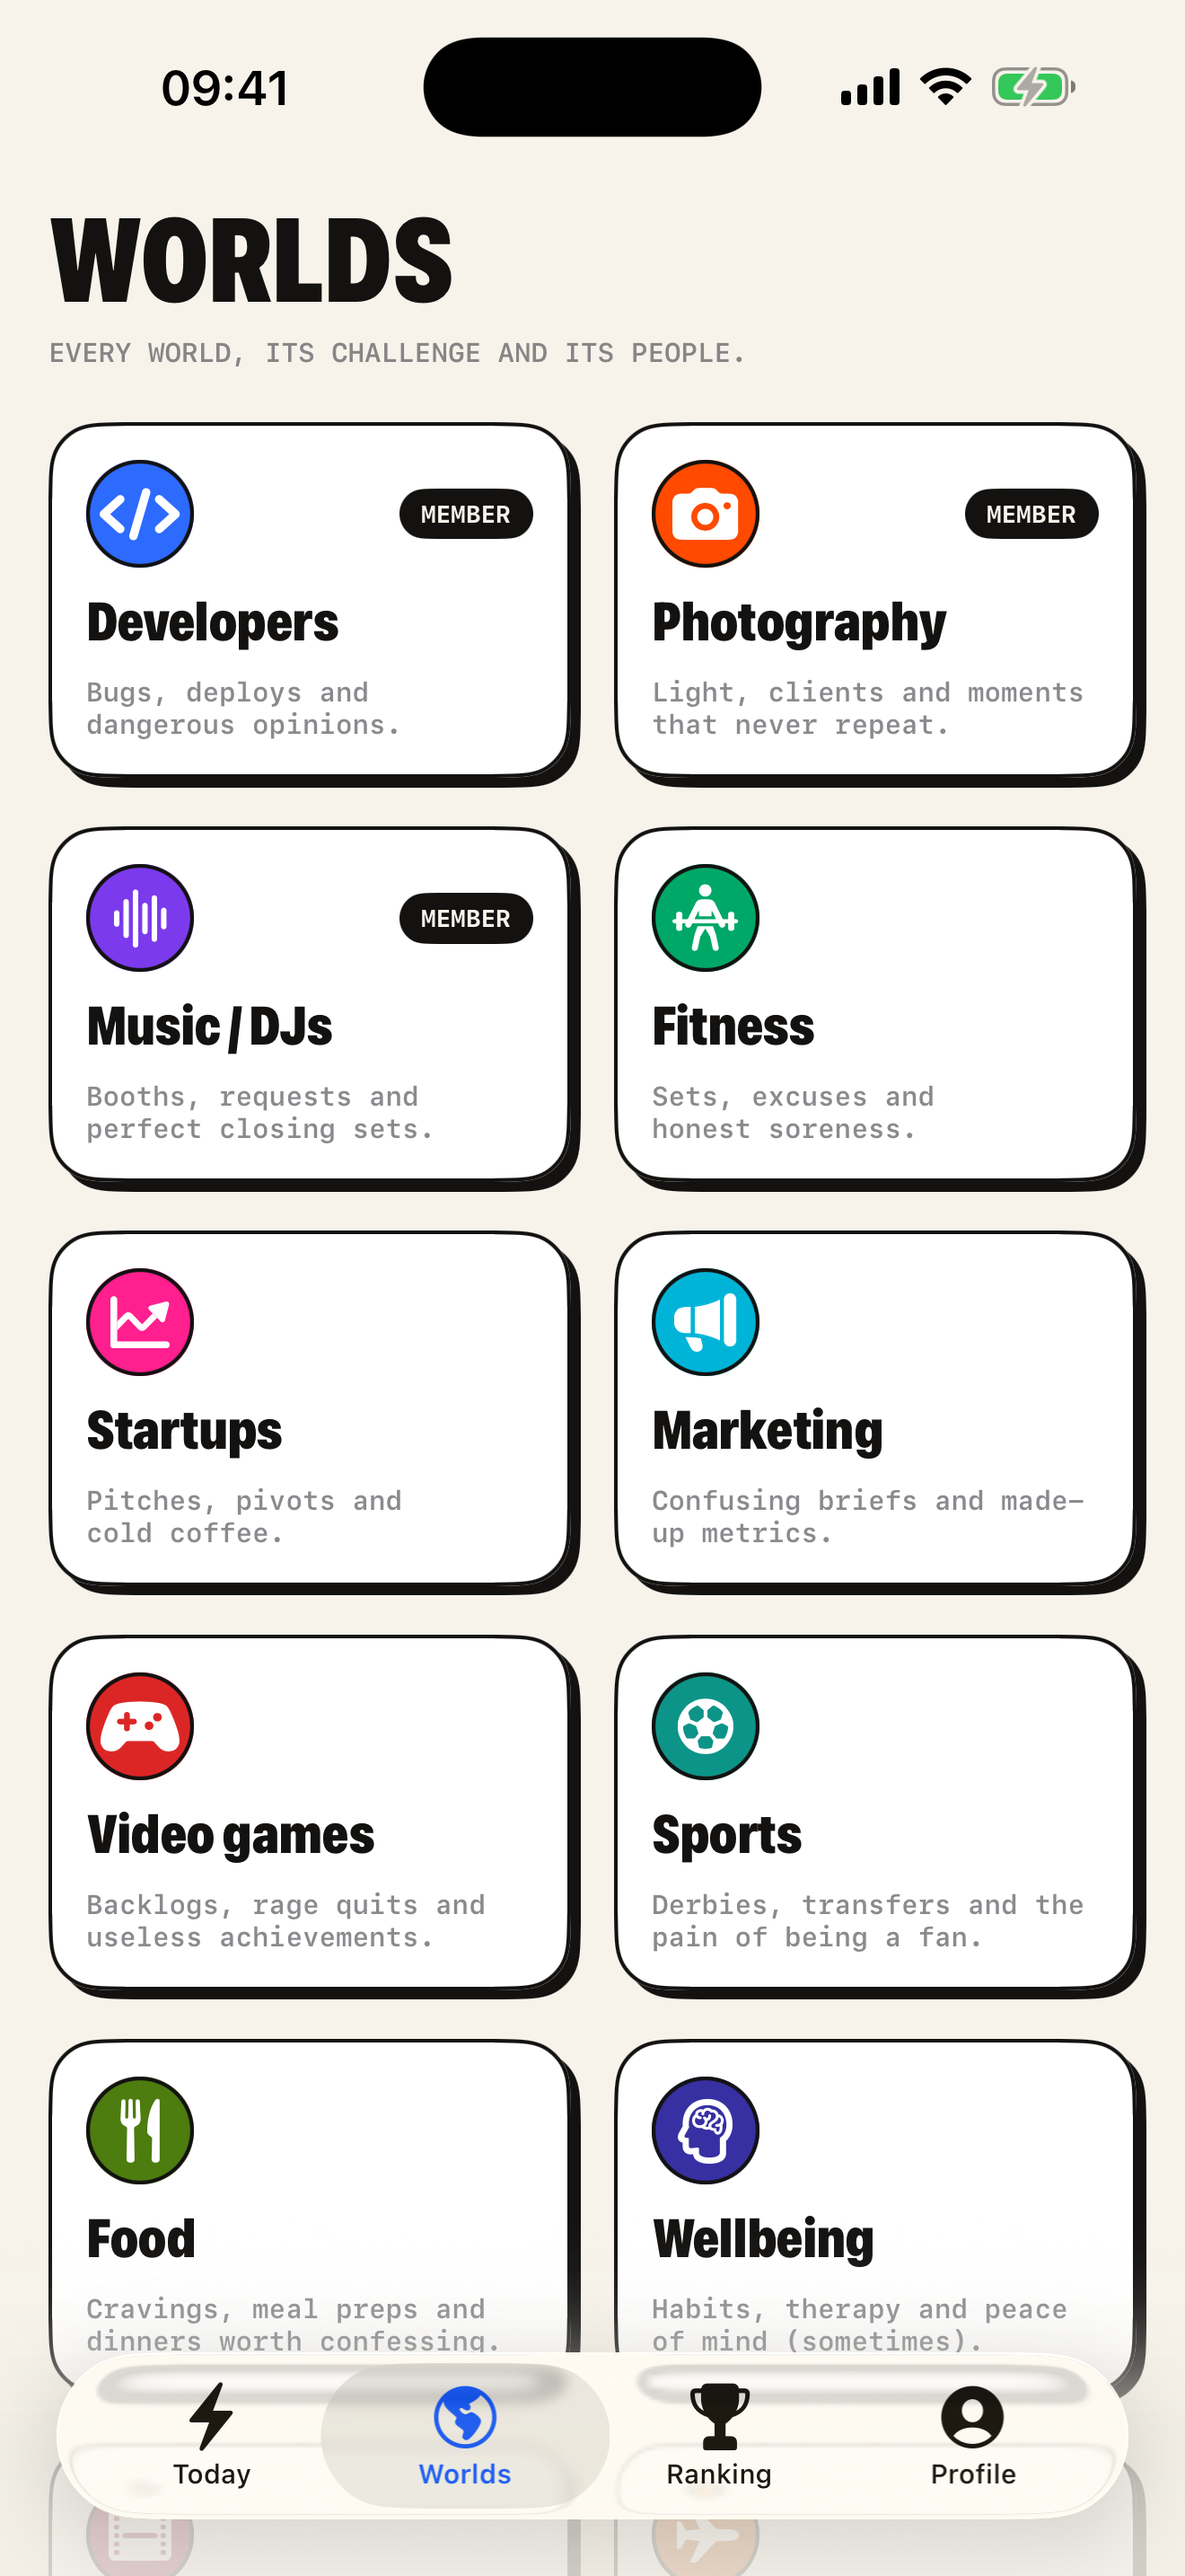
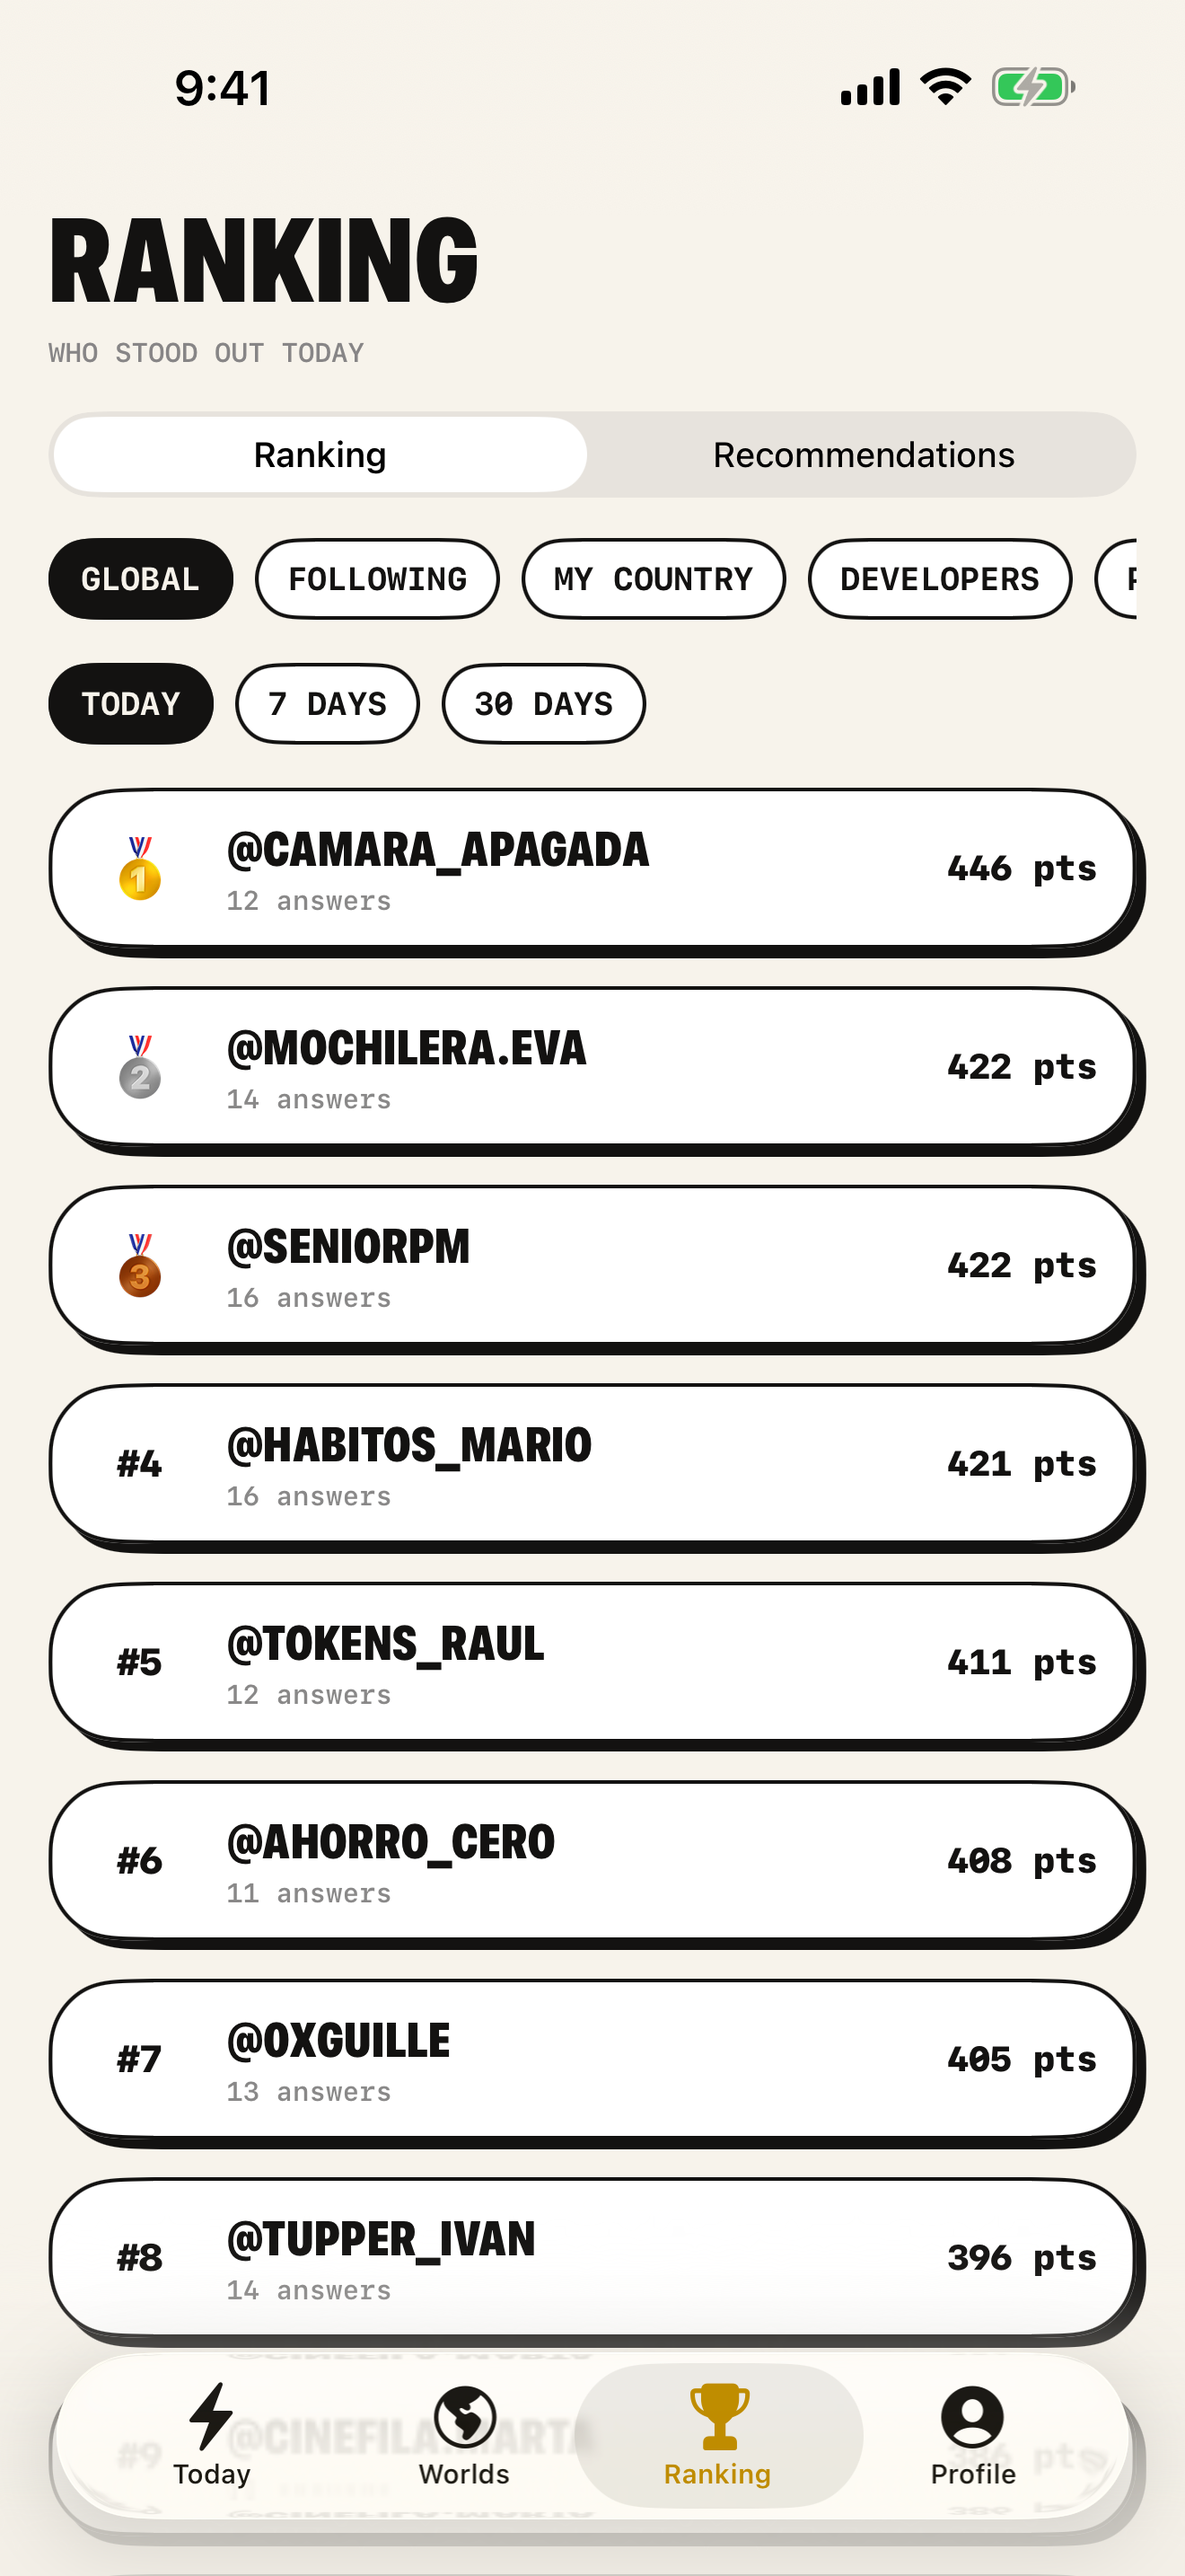
BLAB ficha: iOS, Android and web, 20 worlds, 7 languages, Google Play button, blab.day as the site, current features and pricing; fresh iOS captures (1.6.4) and a new Android screens panel

Changed region(s): [[0.0311, 0.0, 0.9939, 1.0], [0.4348, 0.1241, 0.4659, 0.1552]]

diff --git a/data/portfolio.ts b/data/portfolio.ts
@@ -42,6 +42,8 @@ export interface AppProduct {
   icon?: string
   /** Real product screenshots under /public (never fabricated UI). */
   screens?: string[]
+  /** Android captures, shown in a second panel under the iOS ones. */
+  androidScreens?: string[]
   appStoreUrl?: string
   playStoreUrl?: string
   stats?: { value: string; label: string }[]
@@ -258,47 +260,49 @@ export const products: AppProduct[] = [
     status: 'live',
     statusText: 'LIVE',
     flagship: false,
-    platforms: 'iOS',
-    languages: 'English, Spanish',
+    platforms: 'iOS · Android · Web',
+    languages: '7 languages',
     oneLiner: 'A social app of daily micro-challenges. Answer today’s challenge in your mode — confession, roast, unpopular opinion — inside worlds that get your context.',
     tagline: 'Answer challenges. Pick your mode. Stand out.',
     highlight: 'Stand out.',
-    lede: 'One challenge a day. Five modes to answer it. Eighteen worlds that get your context. Reactions that mean something — no generic like. Challenge + mode + world = a post with context.',
-    siteUrl: 'https://getblab.app',
+    lede: 'One challenge a day, the same for everyone. Five modes to answer it. Twenty worlds that get your context. Five reactions that say something. No engagement algorithm deciding what you see.',
+    siteUrl: 'https://blab.day',
     icon: '/apps/blab-icon.png',
     screens: ['/apps/blab-screen-1.png', '/apps/blab-screen-2.png', '/apps/blab-screen-3.png'],
+    androidScreens: ['/apps/blab-android-1.png', '/apps/blab-android-2.png', '/apps/blab-android-3.png'],
     appStoreUrl: 'https://apps.apple.com/app/id6807564772',
+    playStoreUrl: 'https://play.google.com/store/apps/details?id=com.beatlabs.blab',
     stats: [
       { value: '5', label: 'Modes' },
-      { value: '18', label: 'Worlds' },
-      { value: '4', label: 'Reactions' },
+      { value: '20', label: 'Worlds' },
+      { value: '7', label: 'Languages' },
     ],
     features: [
-      { id: '01', title: 'A challenge a day.', desc: 'Every day the app proposes a challenge. Never stare at an empty box again — you always know what to post.' },
-      { id: '02', title: '5 modes.', desc: 'Confession, roast, unpopular opinion, idea, advice. Pick how you answer, and everyone knows the tone before they read.' },
-      { id: '03', title: '18 worlds.', desc: 'Developers, photography, music & DJs, fitness, startups, marketing and more. Choose up to five — each with its own challenges.' },
-      { id: '04', title: 'Reactions that mean something.', desc: '🙌 That’s me, 💥 Brutal, 🛠 Useful, 🔖 Saved. Four reactions, no generic like.' },
-      { id: '05', title: 'Ranking & streak.', desc: 'Global, following, your country or each of your worlds — today, 7 days, 30 days. Keep the streak alive.' },
-      { id: '06', title: 'Photo, video, links.', desc: 'One photo per post, a link card that never hides its real domain, and short video for Pro.' },
+      { id: '01', title: 'A challenge a day.', desc: 'Every day the app proposes one question for all of BLAB. Never stare at an empty box again — and you can always post freely too.' },
+      { id: '02', title: '5 modes.', desc: 'Confession, roast, unpopular opinion, idea, advice. Every challenge sets its tone, so everyone knows how to read you.' },
+      { id: '03', title: '20 worlds.', desc: 'Developers, photography, music & DJs, fitness, startups, food, travel, pets, money, work, daily life and more. No joining: a world is just where you post.' },
+      { id: '04', title: 'Reactions that mean something.', desc: '❤ Like, 🙌 That’s me, 💥 Brutal, 🛠 Useful, 🔖 Saved. Reactions you give yourself never count.' },
+      { id: '05', title: 'Photo, video, GIF, link, poll, Check-in.', desc: 'A photo or a short video, a KLIPY GIF, a link card that never hides its real domain, a 24-hour poll, or a Check-in of a film, book, game, dish, album, podcast or place with your stars.' },
+      { id: '06', title: 'Ranking, streak and your week.', desc: 'Global, following, your country or any world — today, 7 days, 30 days. A daily reminder at your hour, and every Sunday a recap of your week.' },
     ],
     howItWorks: [
-      { step: '01', title: 'Pick your worlds', desc: 'Choose up to five worlds that match what you do. That is your feed.' },
-      { step: '02', title: 'Answer in a mode', desc: 'Open today’s challenge, pick confession, roast, unpopular opinion, idea or advice, and post.' },
+      { step: '01', title: 'Read first', desc: 'Open BLAB and read today’s challenge and its answers. No account needed to browse.' },
+      { step: '02', title: 'Answer in a mode', desc: 'Sign in with Apple or Google in one tap, pick a world, and post — text, photo, GIF, poll or Check-in.' },
       { step: '03', title: 'Stand out', desc: 'Earn reactions, climb the ranking, keep your streak going.' },
     ],
     pricing: [
-      { name: 'Free', price: '€0', note: 'Everything you need', items: ['Daily challenges', 'All modes and worlds', 'One photo per post'] },
-      { name: 'Pro', price: '€2.99', note: 'Monthly, or €24.99 a year', items: ['Video up to 15 s', 'PRO badge'], highlight: true },
+      { name: 'Free', price: '€0', note: 'Everything you need', items: ['Daily challenges', 'All modes and worlds', 'Photo, GIF, link and Check-in', 'Vote in polls'] },
+      { name: 'Pro', price: '€2.99', note: 'Monthly, or €24.99 a year', items: ['Video up to 15 s', 'Create polls', 'PRO badge'], highlight: true },
     ],
     faq: [
       { q: 'What is BLAB?', a: 'A social app where every post starts from a challenge. The app proposes one daily; you answer in a mode, inside a world of people who get your context.' },
-      { q: 'What are modes and worlds?', a: 'A mode is the tone of your answer: confession, roast, unpopular opinion, idea or advice. A world is the community it belongs to — developers, photography, music, fitness, startups, marketing and twelve more.' },
-      { q: 'Can I create my own world?', a: 'Not yet. Worlds are a curated catalogue of eighteen so communities don’t fragment. New ones are added by us.' },
-      { q: 'Is BLAB free?', a: 'Yes. Pro (€2.99 a month or €24.99 a year) adds video posts up to 15 seconds and the PRO badge.' },
-      { q: 'Where is it available?', a: 'BLAB is available now on iOS, in English and Spanish. Android is coming next.' },
+      { q: 'What are modes and worlds?', a: 'A mode is the tone of your answer: confession, roast, unpopular opinion, idea or advice. A world is the community it belongs to — developers, photography, music, fitness, startups, marketing and fourteen more.' },
+      { q: 'Can I create my own world?', a: 'Not yet. Worlds are a curated catalogue of twenty so communities don’t fragment. New ones are added by us.' },
+      { q: 'Is BLAB free?', a: 'Yes. Pro (€2.99 a month or €24.99 a year) adds video posts up to 15 seconds, creating polls and the PRO badge.' },
+      { q: 'Where is it available?', a: 'On iOS and iPad, Android and the web at blab.day, in English, Spanish, Italian, French, Portuguese, German and Arabic.' },
     ],
     docs: [
-      { label: 'Website', href: 'https://getblab.app' },
+      { label: 'Website', href: 'https://blab.day' },
       { label: 'Privacy Policy', href: 'https://getblab.app/privacy' },
       { label: 'Terms of Service', href: 'https://getblab.app/terms' },
     ],

diff --git a/app/apps/[slug]/page.tsx b/app/apps/[slug]/page.tsx
@@ -97,11 +97,22 @@ export default function AppDetailPage({ params }: { params: { slug: string } }) 
         {/* SCREENS */}
         {app.screens && app.screens.length > 0 && (
           <>
-            <Head title="On the phone" label={app.platforms} />
+            <Head title="On the phone" label={app.androidScreens ? 'iOS' : app.platforms} />
             <div className="screens">
               {app.screens.map((src, i) => (
                 // eslint-disable-next-line @next/next/no-img-element
                 <img key={src} src={src} alt={`${app.displayName} screen ${i + 1}`} loading="lazy" width={1320} height={2868} />
+              ))}
+            </div>
+          </>
+        )}
+        {app.androidScreens && app.androidScreens.length > 0 && (
+          <>
+            <Head title="On Android" label="Google Play" />
+            <div className="screens">
+              {app.androidScreens.map((src, i) => (
+                // eslint-disable-next-line @next/next/no-img-element
+                <img key={src} src={src} alt={`${app.displayName} Android screen ${i + 1}`} loading="lazy" width={1080} height={2400} />
               ))}
             </div>
           </>

diff --git a/public/apps/PROVENANCE.md b/public/apps/PROVENANCE.md
@@ -8,7 +8,8 @@ All files are real brand assets; none is generated.
 - curb-screen-1.png, curb-screen-2.png, curb-screen-3.png — captures of the real Curb iOS app (Debug build, iPhone 17 Pro Max simulator on iOS 26.2, 1320×2868) taken on 2026-09-03 with the app's screenshot mode and seeded demo subscriptions; the UI is the shipped app, the subscriptions are demo data.
 - nibango-screen-1.png, nibango-screen-2.png, nibango-screen-3.png — captures of the real Nibango iOS app (Debug build, iPhone 17 Pro Max simulator on iOS 26.2, 1320×2868) taken on 2026-09-03 with the app's screenshot mode and seeded demo listings (royalty-free Unsplash product photos); the UI is the shipped app, the listings and chat are demo data.
 - blab-icon.png — the BLAB app icon, pasted by the owner in the design session on 2026-09-02.
-- blab-screen-1.png, blab-screen-2.png, blab-screen-3.png — captures of the real BLAB iOS app (iPhone 17 Pro Max simulator on iOS 26.2, 1320×2868) taken on 2026-09-03 from the English UI with the app’s `-demoUser` demo profile; copied from the owner’s App Store screenshot set (Today, Answer, Worlds). The UI is the shipped app, the posts are demo data.
+- blab-screen-1.png, blab-screen-2.png, blab-screen-3.png — captures of the real BLAB iOS app (iPhone 17 Pro Max simulator on iOS 26.2, 1320×2868) retaken on 2026-10-16 from the English UI with the app's `-demoUser` demo profile via `scripts/screenshots.sh en` in the BLAB repo (Today, Worlds, Ranking). The UI is the shipped 1.6.4 app, the posts are demo data.
+- blab-android-1.png, blab-android-2.png, blab-android-3.png — captures of the real BLAB Android app (debug build of 2026-10-16 on the `BLAB_Screenshots_20261004` emulator, 1080×2400) with the same demo profile (`--ez demoUser true`), English UI: Today, Worlds, Profile.
 - truelove-icon.png — the TrueLoveCreative apple-touch-icon fetched from https://truelovecreative.es/apple-icon.png (owner's studio).
 - estrela-mark.png — the Estrela Photography signature fetched from https://estrela.photo/img/signature.webp (owner's studio), converted to PNG.
 - founder.webp — portrait of Javier Estrela fetched from https://estrela.photo/img/contact-800.webp (owner's own site).
